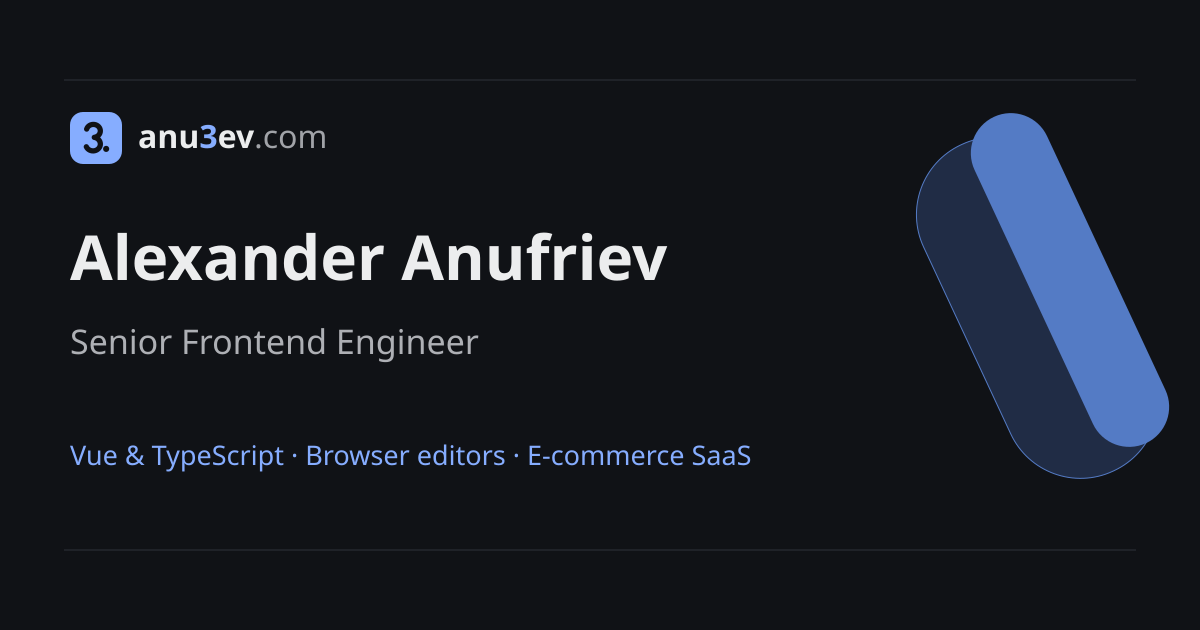
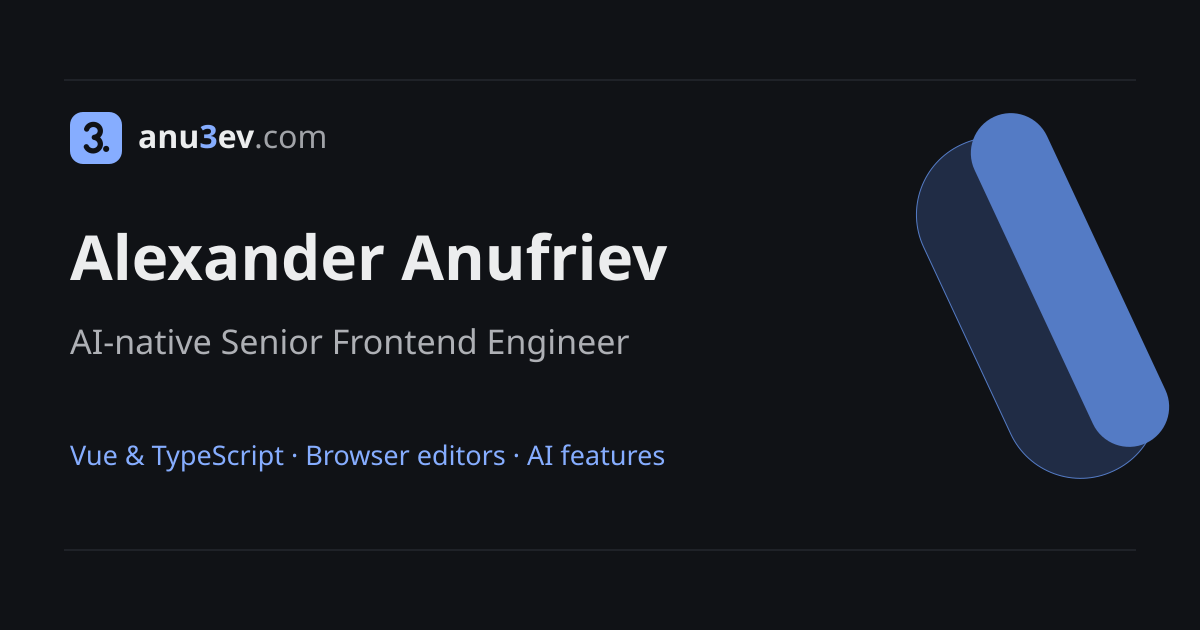
Apply the AI-native positioning across the whole site; release 1.6.4
- Headline, page titles, footer and call to action in both languages
- About copy and toolkit, which also feeds knowsAbout in structured data
- Portfolio and contact intros, right sidebar, Home highlights
- Default social image and README

The inSales job title stays as the real employment title.

Changed region(s): [[0.0617, 0.5127, 0.5242, 0.573], [0.4317, 0.6937, 0.6167, 0.754]]

diff --git a/app/i18n/messages.ts b/app/i18n/messages.ts
@@ -4,7 +4,7 @@ export const messages = {
     homeSectionTitle: 'A little about me', aboutSectionTitle: 'Experience and approach', notebookTitle: 'Development notes',
     startConversation: 'Start a conversation', builtWithCare: 'Site built by',
     currentFocus: 'Current focus',
-    tagline: 'Senior frontend engineer · Vue and TypeScript · Batumi, Georgia',
+    tagline: 'AI-native Senior Frontend Engineer · Vue and TypeScript · Batumi, Georgia',
     workbench: 'Latest', workAndNotes: 'Work & notes', remote: 'Remote · B2B / EOR · Relocation', allWork: 'All work',
     collaboration: 'Working together',
     home: 'Home', work: 'Portfolio', blog: 'Blog', about: 'About', contact: 'Contacts',
@@ -46,7 +46,7 @@ export const messages = {
     homeSectionTitle: 'Немного обо мне', aboutSectionTitle: 'Опыт и подход к работе', notebookTitle: 'Заметки о разработке',
     startConversation: 'Как со мной связаться', builtWithCare: 'Сайт собрал',
     currentFocus: 'Чем занимаюсь',
-    tagline: 'Senior frontend-разработчик · Vue и TypeScript · Батуми, Грузия',
+    tagline: 'AI-native senior frontend-разработчик · Vue и TypeScript · Батуми, Грузия',
     workbench: 'Свежее', workAndNotes: 'Проекты и заметки', remote: 'Удалённо · B2B / EOR · Релокация', allWork: 'Все проекты',
     collaboration: 'Формат работы',
     home: 'Главная', work: 'Портфолио', blog: 'Блог', about: 'Обо мне', contact: 'Контакты',

diff --git a/README.md b/README.md
@@ -1,6 +1,6 @@
 # anu3ev.com
 
-The source of [anu3ev.com](https://anu3ev.com/), the portfolio of Alexander Anufriev, a senior frontend engineer working with Vue and TypeScript. The site has case studies of products I built at inSales and in open source, technical articles, certificates and recommendations from colleagues, in English and Russian (`/ru`).
+The source of [anu3ev.com](https://anu3ev.com/), the portfolio of Alexander Anufriev, an AI-native senior frontend engineer working with Vue and TypeScript. The site has case studies of products I built at inSales and in open source, technical articles, certificates and recommendations from colleagues, in English and Russian (`/ru`).
 
 ## Stack
 
